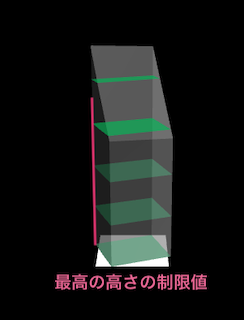
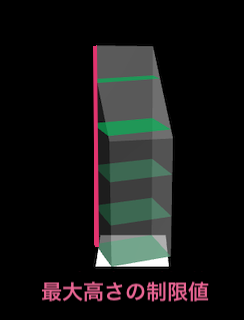
fix figure11

Changed region(s): [[0.1721, 0.8438, 0.8607, 0.9688], [0.3443, 0.125, 0.4303, 0.7812]]

diff --git a/docs/manual/ConditionalVolumeGeneration.html b/docs/manual/ConditionalVolumeGeneration.html
@@ -102,7 +102,7 @@
 <li>敷地面積、階高、容積率から算出する高さ上限より優先される高さ制限値です。</li>
 </ul>
 </li>
-<li>元のビルの高さ
+<li>算定対象の建物の高さ
 <ul>
 <li>建築可能な建物の最大ボリュームと既存建築物の差分を表すために使用します。</li>
 </ul>
@@ -113,7 +113,9 @@
 生成条件を指定したボリューム生成を行う場合はこのようなJSONファイルをご用意下さい。</p>
 <pre><code class="lang-json5">[
   {
+    //敷地面積
     &quot;siteArea&quot;: 64.54208,
+    //建物形状ローカル座標
     &quot;building&quot;: [
       {
         &quot;x&quot;: 4.874860211275518,
@@ -161,6 +163,7 @@
         &quot;z&quot;: 0
       }
     ],
+    //道路外側斜線制限面ローカル座標
     &quot;syasenPlanes&quot;: [
       [
         {
@@ -185,6 +188,7 @@
         }
       ]
     ],
+    //隣地斜線制限面ローカル座標
     &quot;rinchPlanes&quot;: [
       [
         {
@@ -238,9 +242,13 @@
         }
       ]
     ],
+    //算定対象の建物の高さ
     &quot;citygml_me&quot;: 17.554,
+    //容積率
     &quot;far&quot;: 479.7,
+    //階高
     &quot;kaidaka&quot;: 5.5,
+    //生成する建物の高さをこの値で制限。容積率より優先
     &quot;maxLimitH&quot;: null
   }
 ]
@@ -307,9 +315,9 @@
 <p><img src="../resources/manual/conditionalVolumeGeneration/rinchiCut.png" alt=""></p>
 <ul>
 <li>citygml_me<br>
-元のビルの高さを入力します。<br>
-入力する値の単位はメートルです。
-元のビルの高さは余剰容積ボリュームを算定する対象の建物の高さのことで、地盤面からルーフまでの高さを指します。</li>
+算定対象の建物の高さを入力します。
+入力する値の単位はメートルです。<br>
+これは余剰容積ボリュームを算定する対象の建物の高さのことで、地盤面から既存のルーフまでの高さを指します。</li>
 </ul>
 <p><img src="../resources/manual/conditionalVolumeGeneration/originBldgHeight.png" alt=""></p>
 <ul>
@@ -322,13 +330,13 @@
 <ul>
 <li>kaidaka<br>
 階高を入力します。
-入力する値の単位はメートルです。
-階高は建物の各階の高さです。</li>
+入力する値の単位はメートルです。<br>
+階高は建物の各階の高さで、フロアに依らず一定の高さになります。</li>
 </ul>
 <p><img src="../resources/manual/conditionalVolumeGeneration/kaidaka.png" alt=""></p>
 <ul>
 <li>maxLimitH<br>
-生成する容積ボリュームの最高の高さの制限値を指定します。
+生成する容積ボリュームの最大高さの制限値を指定します。
 入力する値の単位はメートルです。
 地区計画などで、地域ごとに建物高さの最大値が指定されている場合は、ここにその最大値を指定します。</li>
 </ul>
@@ -337,12 +345,12 @@
 <pre><code class="lang-typescript">type BuildingParam = {
   siteArea: number //敷地面積
   building: BABYLON.Vector3[] //建物形状ローカル座標
-  syasenPlanes: BABYLON.Vector3[][] //道路外側斜線制限面ローカル
-  rinchPlanes: BABYLON.Vector3[][] //隣地斜線制限面ローカル
-  citygml_me: number //元のビルの高さに相当
+  syasenPlanes: BABYLON.Vector3[][] //道路外側斜線制限面ローカル座標
+  rinchPlanes: BABYLON.Vector3[][] //隣地斜線制限面ローカル座標
+  citygml_me: number //算定対象の建物の高さ
   far: number //容積率
   kaidaka: number //階高
-  maxLimitH: number | null //生成する建物の高さをこの値で制限.容積率より優先
+  maxLimitH: number | null //生成する建物の高さをこの値で制限。容積率より優先
 }
 </code></pre>
 <h2 id="ボリューム生成と確認">ボリューム生成と確認</h2>
